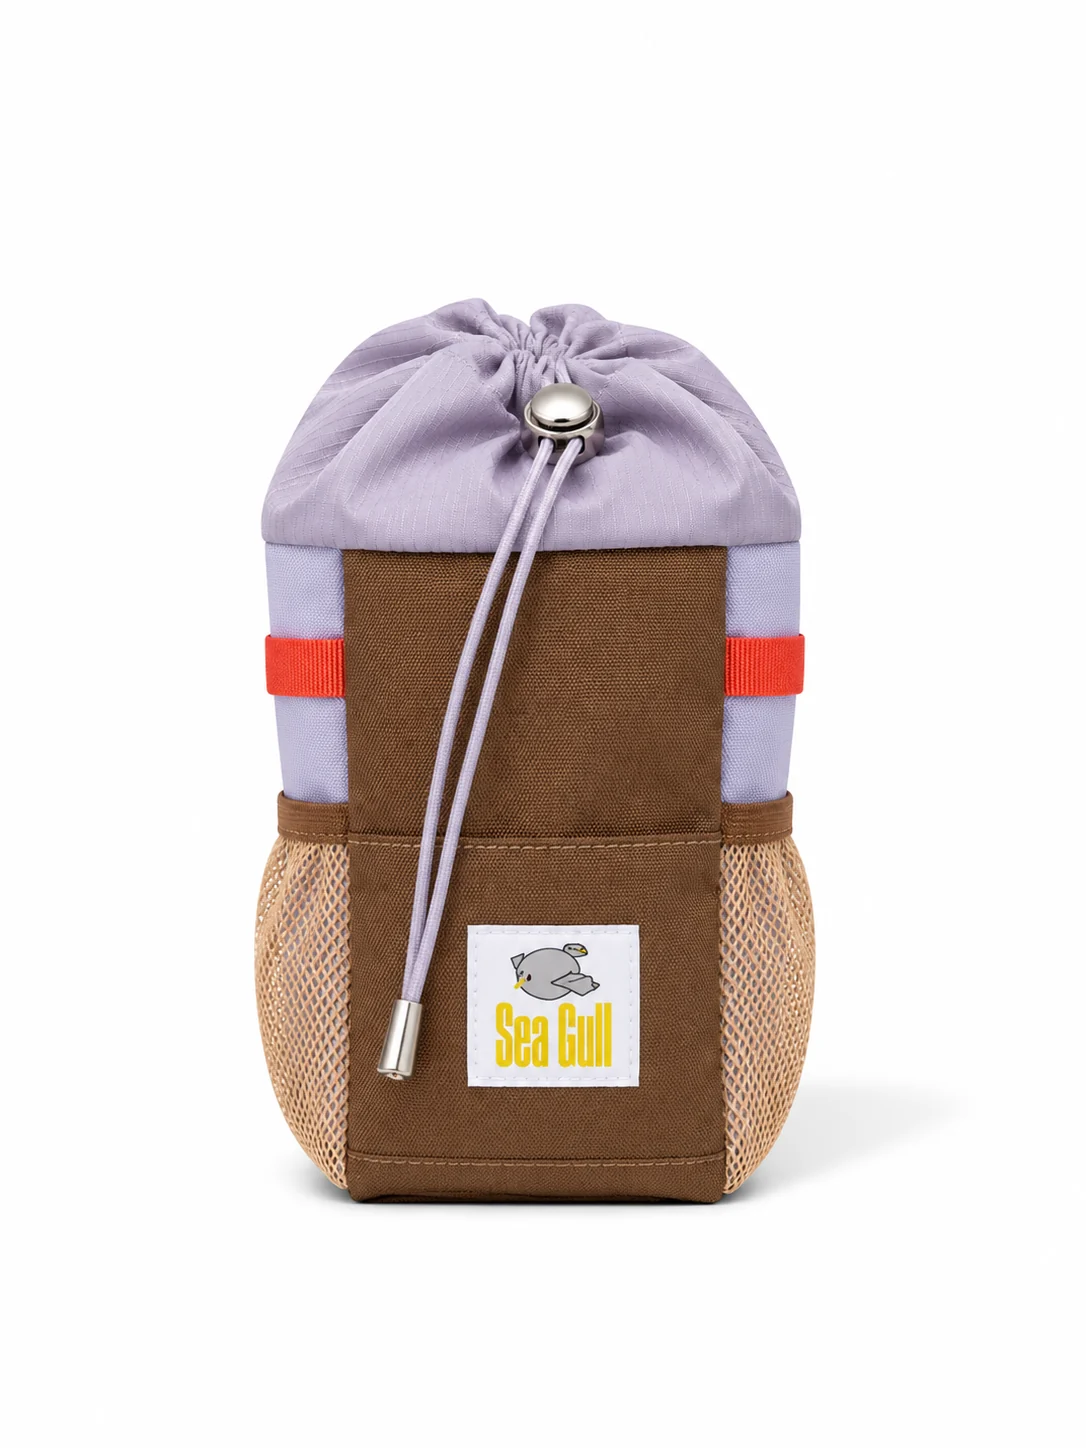
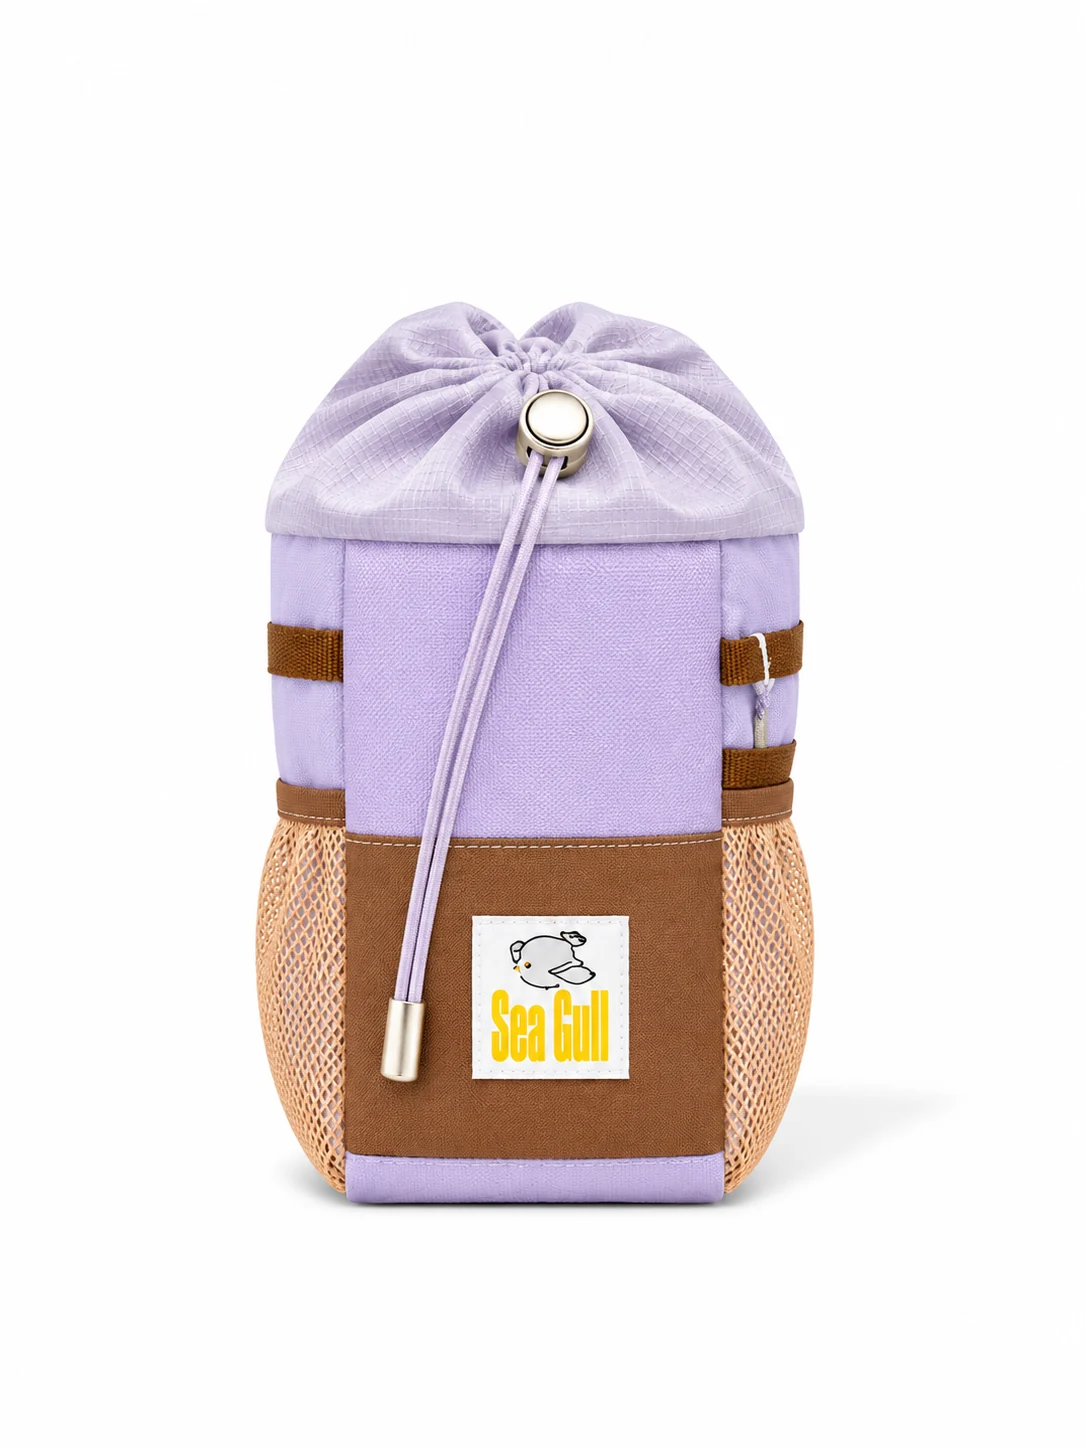
Refresh product primary imagery

Changed region(s): [[0.2127, 0.1865, 0.7597, 0.8391]]

diff --git a/data/products.ts b/data/products.ts
@@ -767,6 +767,7 @@ export const products: Product[] = [
     "priceLabel": "20",
     "badge": "SGL Print",
     "images": [
+      "/products/sports-bandana-studio.webp",
       "/products/optimized/sgl-product-015.webp",
       "/products/optimized/sgl-product-016.webp",
       "/products/optimized/sgl-product-017.webp",
@@ -846,11 +847,12 @@ export const products: Product[] = [
     "priceLabel": "TBD",
     "badge": "Archive",
     "images": [
-      "/products/placeholder-bag.svg"
+      "/products/toiletry-bag-orange-studio.webp"
     ],
-    "description": "A preserved SGL toiletry bag record awaiting confirmed imagery, specifications and sale status.",
+    "description": "An orange zippered SGL toiletry bag with a carry handle. Price and current sale status are awaiting confirmation.",
     "details": [
-      "Archived product record"
+      "Zippered storage bag",
+      "Carry handle"
     ],
     "variants": [
       {
@@ -1331,6 +1333,7 @@ export const products: Product[] = [
     "priceLabel": "13",
     "badge": "5 Variants",
     "images": [
+      "/products/cycling-trouser-strap-white-studio.webp",
       "/products/optimized/sgl-product-048.webp",
       "/products/optimized/sgl-product-049.webp",
       "/products/optimized/sgl-product-050.webp",
@@ -1549,6 +1552,7 @@ export const products: Product[] = [
     "badge": "Brown / Purple",
     "images": [
       "/products/handlebar-bag-brown-purple-studio.webp",
+      "/products/handlebar-bag-brown-purple-detail-studio.webp",
       "/products/handlebar-bag-brown-purple-detail-01.webp",
       "/products/handlebar-bag-brown-purple-detail-02.webp"
     ],
@@ -1572,7 +1576,8 @@ export const products: Product[] = [
     "priceLabel": "50",
     "badge": "Red / Grey",
     "images": [
-      "/products/handlebar-bag-red-grey-studio.webp"
+      "/products/handlebar-bag-red-grey-studio.webp",
+      "/products/handlebar-bag-red-grey-detail.webp"
     ],
     "description": "A red and grey compact drawcord SGL bag designed to mount at the bicycle handlebar, with side mesh pockets for small essentials.",
     "details": [

diff --git a/tests/products.test.ts b/tests/products.test.ts
@@ -64,3 +64,13 @@ test("new handlebar bag colourways have independent links and approved imagery",
   assert.equal(getProduct("handlebar-bags")?.images[0], "/products/handlebar-bag-black-studio.webp");
   assert.equal(getProduct("handlebar-bags-reflect-grey")?.images[0], "/products/handlebar-bag-grey-orange-studio.webp");
 });
+
+test("newly supplied catalogue images are used as product primary images", () => {
+  assert.equal(getProduct("sports-bandana-outdoor-magic-scarf")?.images[0], "/products/sports-bandana-studio.webp");
+  assert.equal(getProduct("cycling-leg-strap-pant-strap")?.images[0], "/products/cycling-trouser-strap-white-studio.webp");
+  assert.equal(getProduct("handlebar-bag-brown-purple")?.images[0], "/products/handlebar-bag-brown-purple-studio.webp");
+  assert.equal(getProduct("handlebar-bag-red-grey")?.images[0], "/products/handlebar-bag-red-grey-studio.webp");
+  const toiletryBag = products.find(product => product.slug === "toiletry-bag")!;
+  assert.equal(toiletryBag.images[0], "/products/toiletry-bag-orange-studio.webp");
+  assert.equal(getProduct("toiletry-bag"), undefined);
+});
